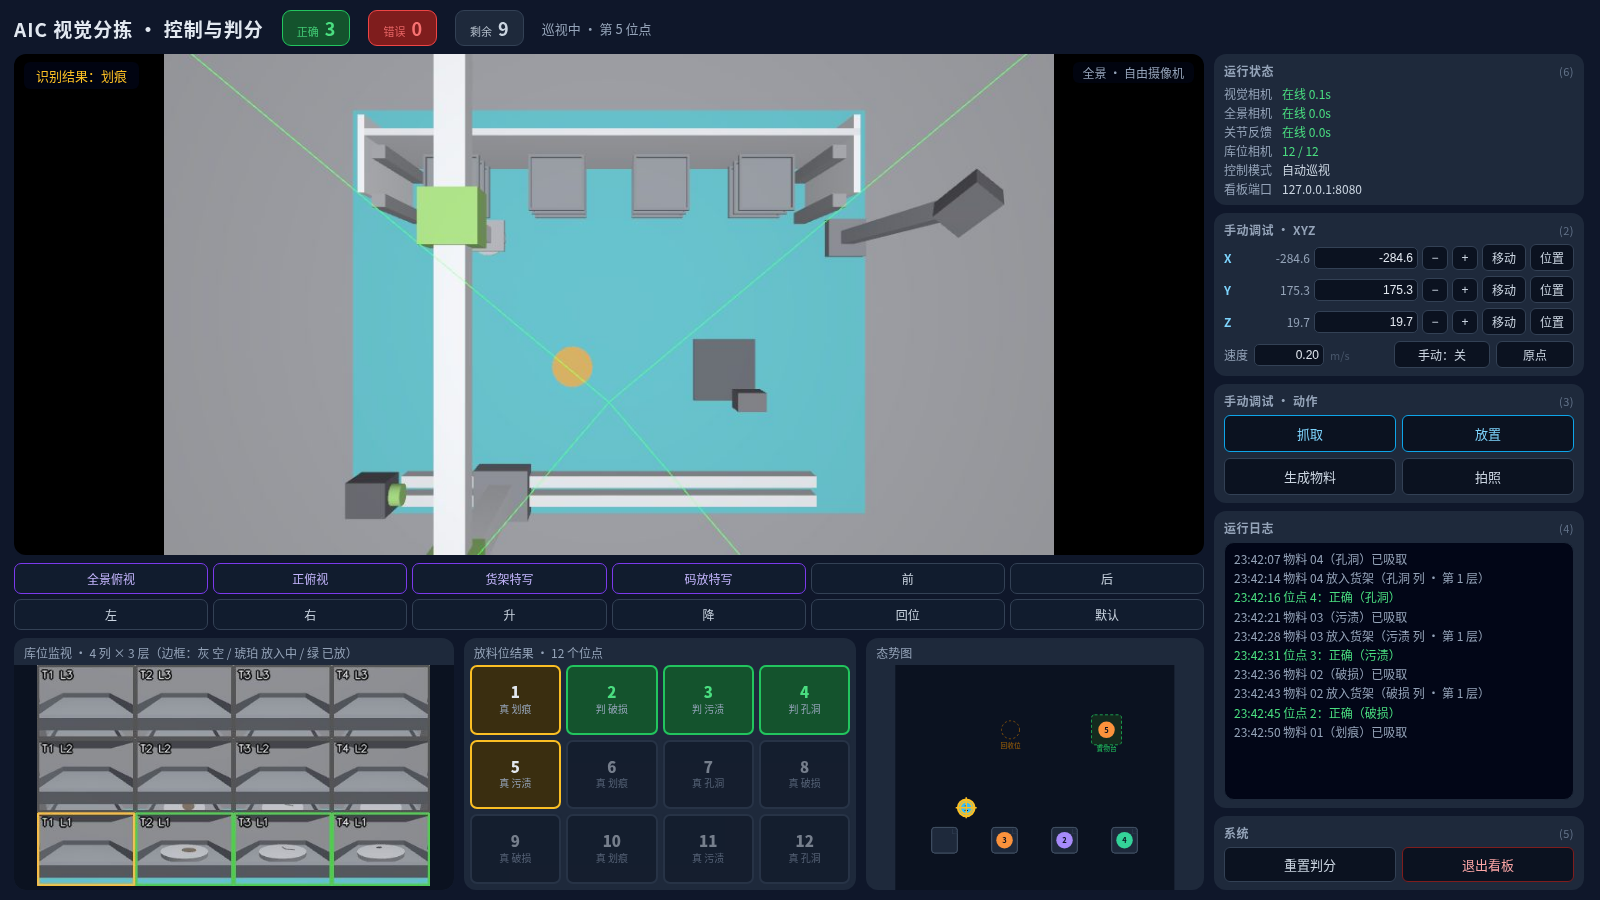
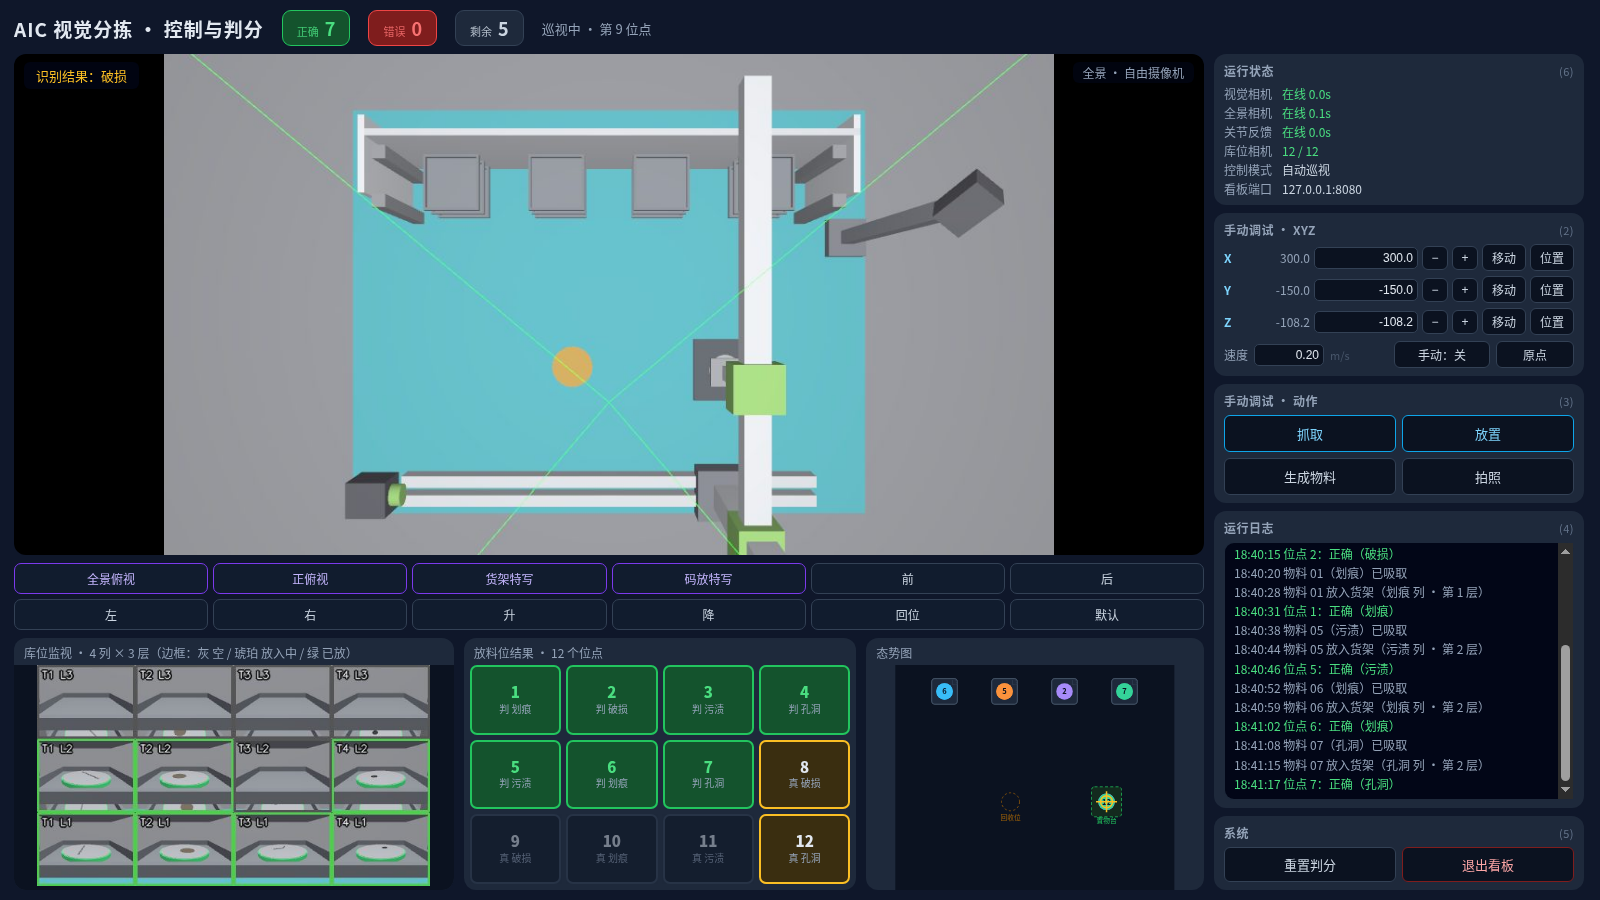
fix(dashboard): 态势图 Y 轴改为 +Y 向上，与全景俯视同向
原来 Y = (y+oy)*S 让货架画在图的下方、置物台在上方，与左侧全景（货架在上）\n正好颠倒。改成 Y = (oy-y)*S 后两幅图同向；截图同步更新（含放料绿环）。

diff --git a/src/plugins/aic_dashboard/scripts/score_node.py b/src/plugins/aic_dashboard/scripts/score_node.py
@@ -621,7 +621,9 @@ for (const a of ["x","y","z"]) {
 
 function drawMap(d) {
   const S = 320, ox = 0.58, oy = 0.42;
-  const X = x => (x + ox) * S, Y = y => (y + oy) * S;
+  // Y 要取负：SVG 的 y 向下，而世界 +Y 是「向货架」。这样态势图与左侧
+  // 全景俯视同向（货架在上、置物台在下），不会左右两个画面上下颠倒。
+  const X = x => (x + ox) * S, Y = y => (oy - y) * S;
   const m = d.map;
   let s = `<rect width="100%" height="100%" fill="#0b1220"/>`;
   for (let lv = 0; lv < m.rows; lv++) {
